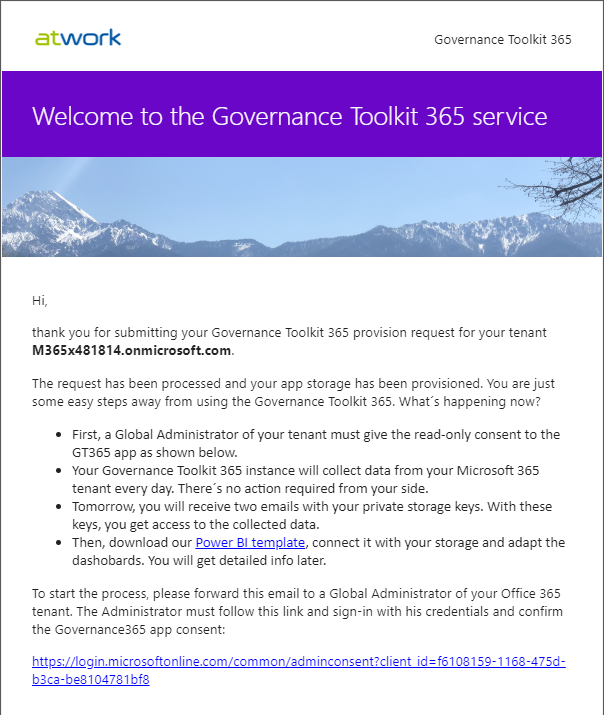
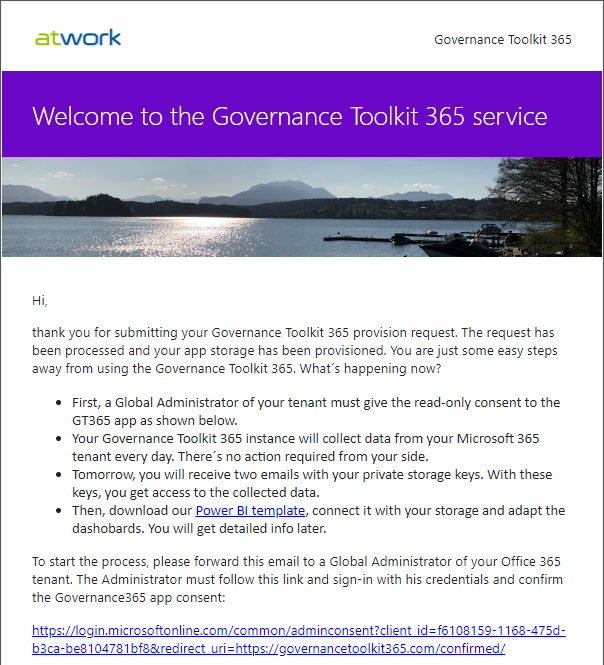
screenshots updated

diff --git a/README.md b/README.md
@@ -16,7 +16,7 @@ The GT365 is provided as SaaS solution. Depending on the planned usage, you can 
 [![link](./images/register-2.png)](./images/register-2 "Click to enlarge")
 
 4. The request will be manually approved usually within one business day. You will receive an email with the subject "GT365: Welcome! Pls. grant the app consent: {your-domain}".
-Send this email (or the provided [link](https://login.microsoftonline.com/common/adminconsent?client_id=f6108159-1168-475d-b3ca-be8104781bf8)) to a Global Administrator of your Microsoft 365 tenant.
+Send this email (or the provided [link](https://login.microsoftonline.com/common/adminconsent?client_id=f6108159-1168-475d-b3ca-be8104781bf8&redirect_uri=https://governancetoolkit365.com/confirmed/)) to a Global Administrator of your Microsoft 365 tenant.
 
 [![link](./images/setup-1.png)](./images/setup-1.png "Click to enlarge")
 [![link](./images/setup-1b.png)](./images/setup-1b.png "Click to enlarge")
